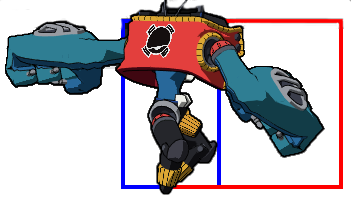
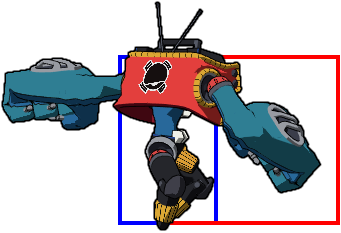
Add doombox images and frame data

diff --git a/main.js b/main.js
@@ -414,14 +414,78 @@ var characterJSON = {
     "color": "#444",
     "strokeColor": "royalblue",
     "img_name": "db",
-    "baseHeight": 136,
+    "baseHeight": 170,
     "poses": [
       {
         "name": "swing",
-        "imgSize": [351, 198],
-        "hurtboxes": [[0, 0, 351, 198]],
-        "hitboxes": [[0, 0, 351, 198]]
-      }
+        "imgSize": [341, 233],
+        "hurtboxes":[[118, 55, 100, 170]],
+        "hitboxes":[[170, 55, 170, 170]],
+      },
+      {
+        "name": "smash",
+        "imgSize": [322, 295],
+        "hurtboxes":[[98, 122, 100, 170]],
+        "hitboxes":[[98, 2, 120, 120], [150, 122, 170, 170]],
+      },
+      {
+        "name": "spike",
+        "imgSize": [166, 310],
+        "hurtboxes":[[24, 41, 100, 170]],
+        "hitboxes":[[14, 137, 120, 170]],
+      },
+      {
+        "name": "bunt",
+        "imgSize": [308, 236],
+        "hurtboxes":[[83, 58, 100, 170]],
+        "hitboxes":[[185, 18, 120, 82], [135, 100, 170, 128]],
+      },
+      {
+        "name": "grab",
+        "imgSize": [327, 227],
+        "hurtboxes":[[88, 50, 100, 170]],
+        "hitboxes":[[140, 50, 170, 170]],
+        "canMirror": true,
+        "fixedRelease": [130, 85],
+      },
+      {
+        "name": "stand",
+        "imgSize": [231, 241],
+        "hurtboxes":[[51, 51, 100, 170]],
+        "hitboxes":[],
+      },
+      {
+        "name": "halfcrouch",
+        "imgSize": [197, 179],
+        "hurtboxes":[[45, 74, 100, 84]],
+        "hitboxes":[],
+        "grounded": true,
+        "groundOffset": 0,
+      },
+      {
+        "name": "crouch",
+        "imgSize": [105, 113],
+        "hurtboxes":[[4, 47, 100, 60]],
+        "hitboxes":[],
+        "grounded": true,
+        "groundOffset": -7,
+      },
+      {
+        "name": "pushbox",
+        "imgSize": [332, 117],
+        "hurtboxes":[[9, 51, 100, 60]],
+        "hitboxes":[[29, 4, 300, 110]],
+        "grounded": true,
+        "groundOffset": -7,
+      },
+      {
+        "name": "lay",
+        "imgSize": [290, 121],
+        "hurtboxes":[[64, 21, 170, 45]],
+        "hitboxes":[],
+        "grounded": true,
+        "groundOffset": 22,
+      },
     ],
     "angles": [
       {
@@ -438,7 +502,7 @@ var characterJSON = {
       {
         "name": "smash",
         "degrees": 45,
-        "validWhen": ["swing"],
+        "validWhen": ["smash"],
         "customOffset": 110,
       },
       {
@@ -450,13 +514,13 @@ var characterJSON = {
       {
         "name": "spike-forward",
         "degrees": 59,
-        "validWhen": ["swing"],
+        "validWhen": ["spike"],
         "customOffset": 110,
       },
       {
         "name": "spike-backward",
         "degrees": 160,
-        "validWhen": ["swing"]
+        "validWhen": ["spike"]
       }
     ]
   },
@@ -1089,12 +1153,19 @@ function nextPose(char) {
 function changePoseTo(char, nextPose) {
   var hurtbox = char.getRelativeHurtbox();
 
+  var deltaGroundOffset = 0;
+  if (char.pose.groundOffset) {
+    deltaGroundOffset = char.pose.groundOffset;
+  }
   char.pose = nextPose;
+  if (char.pose.groundOffset) {
+    deltaGroundOffset -= char.pose.groundOffset;
+  }
 
   var nextHurtbox = char.getRelativeHurtbox();
   var delta = hurtbox.bottomCenter - nextHurtbox.bottomCenter;
   char.imgOffset.x += delta.x;
-  char.imgOffset.y += delta.y;
+  char.imgOffset.y += delta.y + deltaGroundOffset;
 }
 
 function poseOfName(char, poseName) {
@@ -1522,10 +1593,14 @@ function draw() {
         ball.position.x = char.x;
         ball.position.y = char.y;
       }
+      var groundOffset = 0;
+      if (char.pose.groundOffset) {
+        groundOffset = char.pose.groundOffset;
+      }
       var hurtbox = char.getRelativeHurtbox();
       var iconSize = new Size(20, 20);
       var iconsX = char.x + char.imgOffset.x + hurtbox.bottomCenter.x - 50 + iconSize.width / 2;
-      var iconsY = char.y + char.imgOffset.y + hurtbox.bottomCenter.y - char.baseHeight - iconSize.height / 2;
+      var iconsY = char.y + char.imgOffset.y + hurtbox.bottomCenter.y - char.baseHeight - iconSize.height / 2 + groundOffset;
       iconsX = Math.max(iconSize.width / 2, iconsX);
       iconsY = Math.max(iconSize.height / 2, iconsY);
       var icon = createButtonWithTooltip("flip", "Flip", tooltip);
